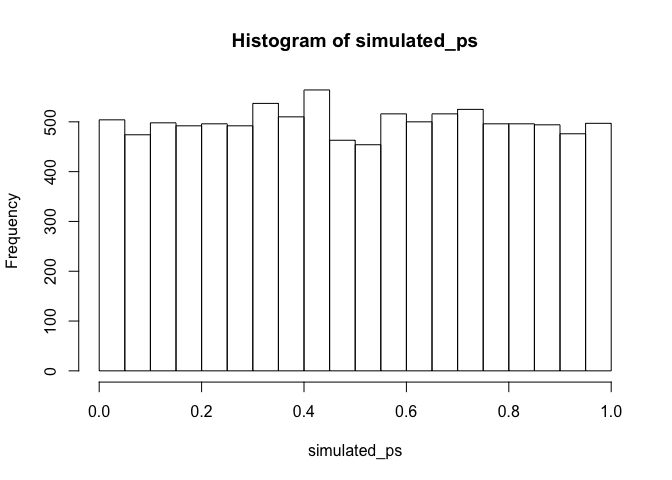
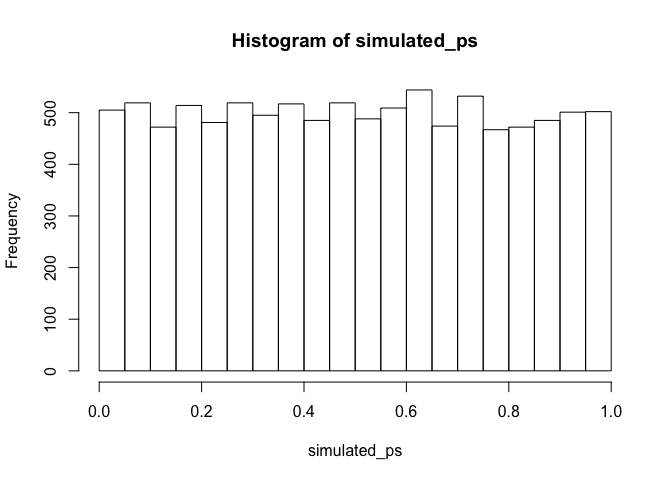
updated readme

diff --git a/readme.md b/readme.md
@@ -3,7 +3,7 @@ Estimating false positive rates with simulation
 Joel Levin
 April 12, 2020
 
-This version: 2020-04-12 13:11:45.  
+This version: 2020-04-12 15:58:56.  
 You can contact Joel at <joelmlevin@gmail.com>.
 
 ## Description
@@ -87,8 +87,8 @@ optional.
 
 ``` r
 diagnostics <- function(data, type = c("table", "plot"), quantiles = c(.01, .05, .10, .5)) {
-  comparitors <- round(quantile(data, quantiles), 4)
-  temp <- cbind(quantiles, comparitors)
+  values <- round(quantile(data, quantiles), 4)
+  temp <- cbind(quantiles, values)
   
     if(type == "table") {
       return(temp)
@@ -127,13 +127,13 @@ t.test(real_dv ~ real_conditions)
     ##  Welch Two Sample t-test
     ## 
     ## data:  real_dv by real_conditions
-    ## t = -0.90006, df = 90.085, p-value = 0.3705
+    ## t = -0.13333, df = 97.964, p-value = 0.8942
     ## alternative hypothesis: true difference in means is not equal to 0
     ## 95 percent confidence interval:
-    ##  -6.135013  2.309273
+    ##  -4.374064  3.823330
     ## sample estimates:
     ## mean in group 1 mean in group 2 
-    ##        19.53892        21.45179
+    ##        18.70323        18.97859
 
 Now using the function to simulate p values for random experimental
 conditions
@@ -150,25 +150,25 @@ simulated_ps <- simulate_fp(outcome_vector = real_dv, num_conditions = 2, test_t
 simulated_ps[1:10]
 ```
 
-    ##  [1] 0.17416838 0.82437434 0.42130946 0.02833715 0.90954167 0.67483709
-    ##  [7] 0.22920349 0.43576945 0.60011890 0.57542034
+    ##  [1] 0.5416774 0.9016172 0.6729485 0.5321681 0.2495026 0.5241475 0.1179447
+    ##  [8] 0.9376294 0.7429206 0.2064827
 
 ### Now using the diagnostic functions.
 
-The diagnostic table gives shows you the p values (comparitors) at
-various percentiles (quantiles). The closer the two are, the better the
-test is behaving. Note that this is also affected by the number of
-replications used to generate the simulated data.
+The diagnostic table gives shows you the p values (values) at various
+percentiles (quantiles). The closer the two are, the better the test is
+behaving. Note that this is also affected by the number of replications
+used to generate the simulated data.
 
 ``` r
 diagnostics(simulated_ps, type = "table")
 ```
 
-    ##     quantiles comparitors
-    ## 1%       0.01      0.0099
-    ## 5%       0.05      0.0495
-    ## 10%      0.10      0.1022
-    ## 50%      0.50      0.4969
+    ##     quantiles values
+    ## 1%       0.01 0.0093
+    ## 5%       0.05 0.0494
+    ## 10%      0.10 0.0982
+    ## 50%      0.50 0.4969
 
 The diagnostic plot simply combines both values in a plot with a
 reference line. The closer the points are to the reference line, the
@@ -212,6 +212,6 @@ uniform.test(hist(simulated_ps))
     ##  Chi-squared test for given probabilities
     ## 
     ## data:  hist.output$counts
-    ## X-squared = 23.36, df = 19, p-value = 0.2219
+    ## X-squared = 17.904, df = 19, p-value = 0.5289
 
 (Later, add in the plotting functions)
